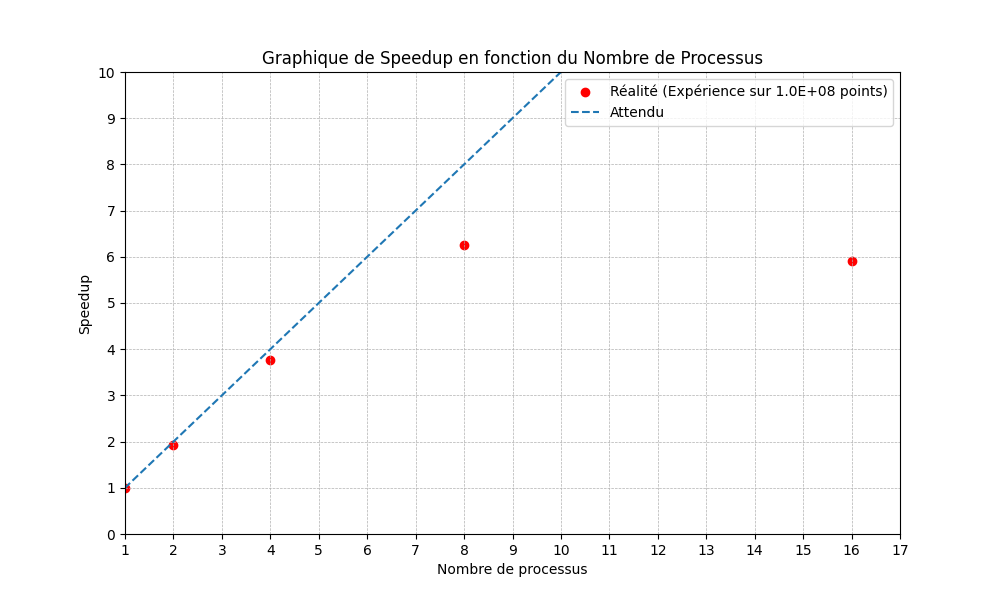
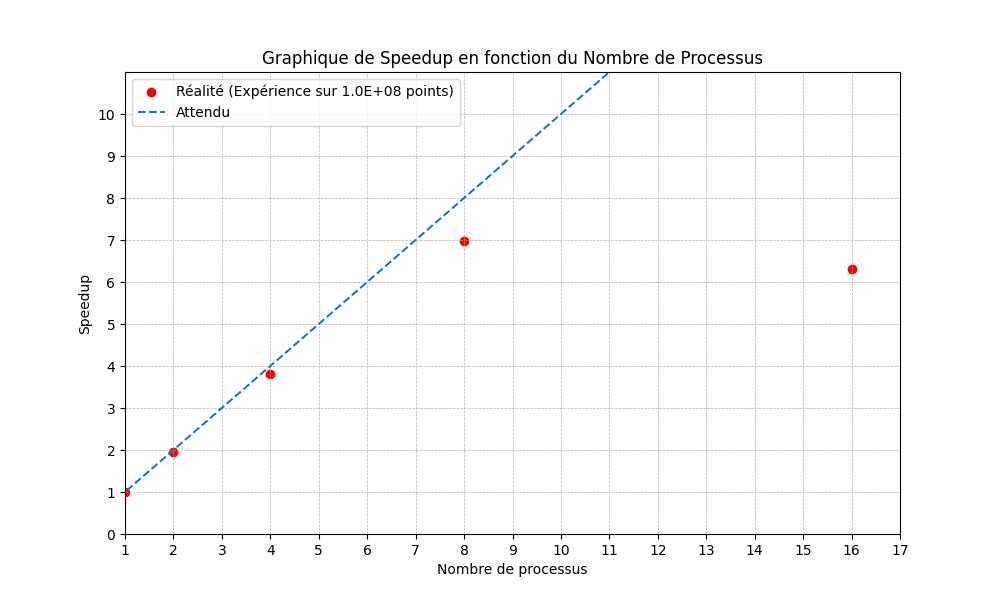
Speedup de pi.java avec master/worker

diff --git a/JAVA_SOCKET/src/main/java/org/example/MasterSocket.java b/JAVA_SOCKET/src/main/java/org/example/MasterSocket.java
@@ -2,6 +2,9 @@ package org.example;
 
 import java.io.*;
 import java.net.Socket;
+import java.util.ArrayList;
+import java.util.Arrays;
+import java.util.Collections;
 
 /**
  * Master is a client. It makes requests to numWorkers.
@@ -19,8 +22,9 @@ public class MasterSocket {
     public static void main(String[] args) throws Exception {
 
         // MC parameters
-        int totalCount = 16000000; // total number of throws on a Worker
-        int total; // total number of throws inside quarter of disk
+        ArrayList<Long> elapsedTimeArray = new ArrayList<>();
+        int totalCount = 100000000; // total number of throws on a Worker
+        int total = 0; // total number of throws inside quarter of disk
         double pi;
 
         int numWorkers = maxServer;
@@ -60,52 +64,54 @@ public class MasterSocket {
             writer[i] = new PrintWriter(new BufferedWriter(new OutputStreamWriter(sockets[i].getOutputStream())), true);
         }
 
+        totalCount = totalCount / numWorkers;
         String message_to_send;
         message_to_send = String.valueOf(totalCount);
 
-        String message_repeat = "y";
-
         long stopTime, startTime;
 
-        while (message_repeat.equals("y")) {
-            total = 0;
+        total = 0;
+        for (int repeat = 0; repeat < 10; repeat++) {
             startTime = System.currentTimeMillis();
             // initialize workers
             for (int i = 0; i < numWorkers; i++) {
                 writer[i].println(message_to_send);          // send a message to each worker
             }
 
-            //listen to workers's message
+            // listen to workers' messages
             for (int i = 0; i < numWorkers; i++) {
                 tab_total_workers[i] = reader[i].readLine();      // read message from server
                 System.out.println("Client sent: " + tab_total_workers[i]);
             }
+            stopTime = System.currentTimeMillis();
+            long timeDuration = (stopTime - startTime);
+            elapsedTimeArray.add(timeDuration);
+        }
 
-            // compute PI with the result of each workers
+            // compute PI with the result of each worker
             for (int i = 0; i < numWorkers; i++) {
                 total += Integer.parseInt(tab_total_workers[i]);
             }
             pi = 4.0 * total / totalCount / numWorkers;
 
-            stopTime = System.currentTimeMillis();
+            double error = (Math.abs((pi - Math.PI)) / Math.PI);
+            Collections.sort(elapsedTimeArray);
+            System.out.println(Arrays.toString(elapsedTimeArray.toArray()));
+            long elapsedTimeMedian = elapsedTimeArray.get(elapsedTimeArray.size() / 2);
 
             System.out.println("\nPi : " + pi);
-            System.out.println("Error: " + (Math.abs((pi - Math.PI)) / Math.PI) + "\n");
+            System.out.println("Error: " + error + "\n");
 
             System.out.println("Ntot: " + totalCount * numWorkers);
             System.out.println("Available processors: " + numWorkers);
-            System.out.println("Time Duration (ms): " + (stopTime - startTime) + "\n");
+            System.out.println("Time Duration (ms): " + elapsedTimeMedian + "\n");
 
-            System.out.println((Math.abs((pi - Math.PI)) / Math.PI) + " " + totalCount * numWorkers + " " + numWorkers + " " + (stopTime - startTime));
+            System.out.println((Math.abs((pi - Math.PI)) / Math.PI) + " " + totalCount * numWorkers + " " + numWorkers + " " + elapsedTimeMedian);
 
             System.out.println("\n Repeat computation (y/N): ");
-            try {
-                message_repeat = bufferRead.readLine();
-                System.out.println(message_repeat);
-            } catch (IOException ioE) {
-                ioE.printStackTrace();
-            }
-        }
+
+            CsvOutput outputFile = new CsvOutput("./src/main/resources/output_forte_piSocket_machine_G26.csv");
+            outputFile.write(error, totalCount * numWorkers, numWorkers, elapsedTimeMedian);
 
         for (int i = 0; i < numWorkers; i++) {
             System.out.println("END");     // Send ending message

diff --git a/JAVA_SOCKET/src/main/java/org/example/WorkerSocket.java b/JAVA_SOCKET/src/main/java/org/example/WorkerSocket.java
@@ -3,6 +3,7 @@ package org.example;
 import java.io.*;
 import java.net.ServerSocket;
 import java.net.Socket;
+import java.util.Random;
 
 /**
  * Worker is a server. It computes PI by Monte Carlo method and sends
@@ -34,15 +35,15 @@ public class WorkerSocket {
             str = bRead.readLine();          // read message from Master
             if (!(str.equals("END"))) {
                 System.out.println("Server receives totalCount = " + str);
-                int n_tot = Integer.parseInt(str);
-                int n_cibles = 0;
-                for (int i = 0; i < n_tot; i++) {
-                    double x = Math.random();
-                    double y = Math.random();
-                    if (Math.pow(x, 2) + Math.pow(y, 2) <= 1)
-                        n_cibles++;
+                int numIterations = Integer.parseInt(str);
+                long circleCount = 0;
+                Random prng = new Random();
+                for (int j = 0; j < numIterations; j++) {
+                    double x = prng.nextDouble();
+                    double y = prng.nextDouble();
+                    if ((x * x + y * y) < 1) ++circleCount;
                 }
-                pWrite.println(n_cibles);         // send number of points in quarter of disk
+                pWrite.println(circleCount);         // send number of points in quarter of disk
             } else {
                 isRunning = false;
             }

diff --git a/JAVA_SOCKET/src/main/resources/plot.py b/JAVA_SOCKET/src/main/resources/plot.py
@@ -6,7 +6,7 @@ NBR_COEURS = 16
 def expected(x):
     return x  # La fonction attendue est linéaire
 
-file_path = 'output_pi_forte.csv'
+file_path = 'output_forte_piSocket_machine_G26.csv'
 df = pd.read_csv(file_path, sep=";")
 t1 = df["Temps(ms)"][0]
 
@@ -22,11 +22,11 @@ plt.plot(x_expected, y_expected, '--', label="Attendu")
 
 # Définition des axes
 plt.xlim(1, NBR_COEURS)
-plt.ylim(0, 11)  # Limiter l'axe y entre 0 et 1
+plt.ylim(0, 10)  # Limiter l'axe y entre 0 et 1
 
 # Modifie les ticks de l'axe y pour qu'ils soient espacés de 0.1
 plt.xticks(range(1, NBR_COEURS + 2, 1))  
-plt.yticks([i * 1 for i in range(11)])  # Ticks de l'axe y entre 0 et 1 avec un pas de 0.1
+plt.yticks(range(0, 11, 1))  # Ticks de l'axe y entre 0 et 1 avec un pas de 0.1
 
 # Ajout d'une grille avec des pas de 0.1
 plt.grid(True, which='major', linestyle='--', linewidth=0.5)
@@ -40,5 +40,5 @@ plt.xlabel('Nombre de processus')
 plt.ylabel('Speedup')
 plt.legend()
 plt.title('Graphique de Speedup en fonction du Nombre de Processus')
-#plt.savefig('Speedup_Scalabilite_forte_pi_machine_G26.png')
+plt.savefig('Speedup_Scalabilite_forte_piSocket_machine_G26.png')
 plt.show()

diff --git a/TP4/src/main/java/org/example/Assignment102.java b/TP4/src/main/java/org/example/Assignment102.java
@@ -50,7 +50,7 @@ public class Assignment102 {
         int nThrow = 10000000;
         int nProc = 16;
         for (int i = 1; i <= nProc; i++) {
-            PiMonteCarlo PiVal = new PiMonteCarlo(nThrow);
+            PiMonteCarlo PiVal = new PiMonteCarlo(nThrow*i);
             long startTime = System.currentTimeMillis();
             double value = PiVal.getPi(i);
             long stopTime = System.currentTimeMillis();
@@ -62,8 +62,8 @@ public class Assignment102 {
             System.out.println("Available processors: " + i);
             System.out.println("Time Duration: " + timeDuration + "ms");
 
-            CsvOutput outputFile = new CsvOutput("./src/main/resources/output_assignment102_forte_monpc.csv");
-            outputFile.write(error, nThrow, i, timeDuration);
+            CsvOutput outputFile = new CsvOutput("./src/main/resources/output_assignment102_faible_machine_G26.csv");
+            outputFile.write(error, nThrow*i, i, timeDuration);
         }
     }
 }

diff --git a/JAVA_SOCKET/src/main/java/org/example/CsvOutput.java b/JAVA_SOCKET/src/main/java/org/example/CsvOutput.java
@@ -1,0 +1,32 @@
+package org.example;
+
+import java.io.File;
+import java.io.FileWriter;
+import java.io.IOException;
+
+public class CsvOutput {
+    private FileWriter csvFile;
+    public CsvOutput(String pathToCsvFile) {
+        try {
+            csvFile = new FileWriter(pathToCsvFile, true);
+
+            if (new File(pathToCsvFile).length() == 0) {
+                csvFile.write("Erreur;Ntotal;Nprocessus;Temps(ms)\n");
+            }
+        } catch (IOException e) {
+            throw new RuntimeException(e);
+        }
+    }
+
+    public static String buildLine(Double error, int nTotal, int nProc, long temps) {
+        return error + ";" + nTotal + ";" + nProc + ";" + temps + "\n";
+    }
+
+    public void write(Double error, int nTotal, int nProc, long temps) throws IOException {
+        // data sous forme "erreur;ntot;nproc;temps\n"
+        csvFile.write(CsvOutput.buildLine(error, nTotal, nProc, temps));
+        csvFile.close();
+    }
+
+
+}

diff --git a/TP4/src/main/java/org/example/Pi.java b/TP4/src/main/java/org/example/Pi.java
@@ -11,9 +11,8 @@ import java.util.concurrent.*;
 public class Pi {
     public static void main(String[] args) throws Exception {
         long total = 0;
-        // 10 workers, 50000 iterations each
-        for (int j = 1; j <= 16; j++) {
-            total = new Master().doRun(10000000, j);
+        for (int j = 1; j <= 16; j = j*2) {
+            total = new Master().doRun(100000000/j, j);
         }
         System.out.println("total from Master = " + total);
     }
@@ -67,7 +66,7 @@ class Master {
         System.out.println("Available processors: " + numWorkers);
         System.out.println("Time Duration (ms): " + medianElapsedTime + "\n");
 
-        new CsvOutput("./src/main/resources/output_pi_faible_monpc.csv").write(error, nTot, numWorkers, medianElapsedTime);
+        new CsvOutput("./src/main/resources/output_pi_forte.csv").write(error, nTot, numWorkers, medianElapsedTime);
 
         return total;
     }

diff --git a/Monte_carlo.md b/Monte_carlo.md
@@ -29,3 +29,5 @@ on peut donc approximer que :
 $p \approx \frac{nCible}{nTotal} = \frac{\pi}4 \approx \frac{nCible}{nTotal}$
 
 $p = \pi \approx 4 \frac{nCible}{nTotal}$
+
+pour programmer java socket on a réutilisé des codes de pi.java parce déjà testé et approuvé par les speedup. c pour la qualité de code, réutilisabilité etc...
